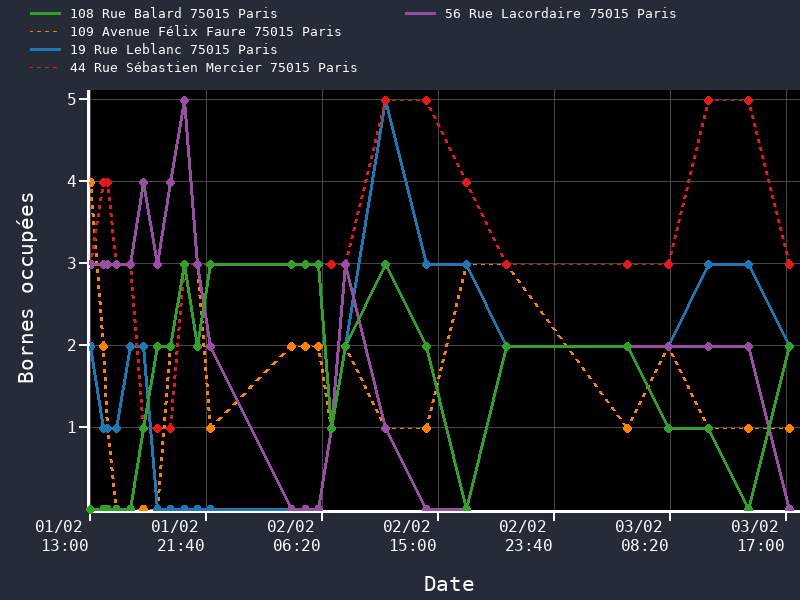
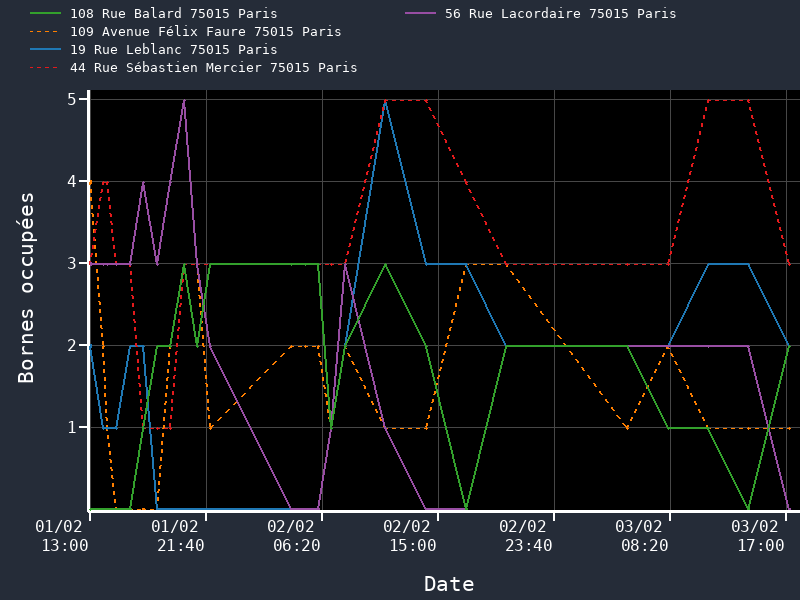
Playing with the framework

diff --git a/plotting_data/src/main.c b/plotting_data/src/main.c
@@ -85,8 +85,8 @@ int main(int argc, char* argv[])
     int margin[2] = {10,10};         /**< margin zone de dessin*/
     int labelSize = 16;              /**< taille de police labels*/
     int tickSize = 12;               /**< taille de police des ticks*/
-    int w_lines = 3;                 /**< epaisseur des traits*/
-    int ms = 8;                      /**< marker size */
+    int w_lines = 2;                 /**< epaisseur des traits*/
+    int ms = 3;                      /**< marker size */
     char* fontLabels = "/usr/share/fonts/dejavu-sans-mono-fonts/DejaVuSansMono.ttf"; /**< chemin vers police 1 */
 
     // Creation de la figure
@@ -95,7 +95,8 @@ int main(int argc, char* argv[])
 
     /* Make ylabel  ----------  A mettre apres update fig */
     int decalx_Y = 10, decaly_Y = 0;    
-    char *ylabel = "Bornes occupées";
+    char *ylabel = "Bornes disponibles";
+    // char *ylabel = "Bornes occupées";
     Make_ylabel(&fig1, ylabel, fontLabels, labelSize, white, decalx_Y, decaly_Y);
 
 
@@ -173,7 +174,8 @@ int main(int argc, char* argv[])
     PlotLine(&fig1, &(lines[0]));
 
      /* Sauvegarde du fichier png */
-    const char *filename_fig1= "fig1_occupe.png";
+    // const char *filename_fig1= "fig1_occupe.png";
+    const char *filename_fig1= "fig1_disponible.png";
     Save_to_png(&fig1, dir_figures, filename_fig1);
 
     /* Destroy the image in memory. */

diff --git a/plotting_data/src/libs/plotter.h b/plotting_data/src/libs/plotter.h
@@ -605,6 +605,8 @@ void Init_figure(Figure *fig, int figsize[2], int pad[2], int margin[2])
 
     /* Initialisation de tous les parametres*/
 
+    // ATTENTION ! Important d'utiliser True Color au lieu de gdImageColor ... 
+    // Ecrasement des plots un peu bizarre sinon ...
     fig->img = gdImageCreateTrueColor(figsize[0],figsize[1]);
     fig->pad[0] = pad[0];
     fig->pad[1] = pad[1];
